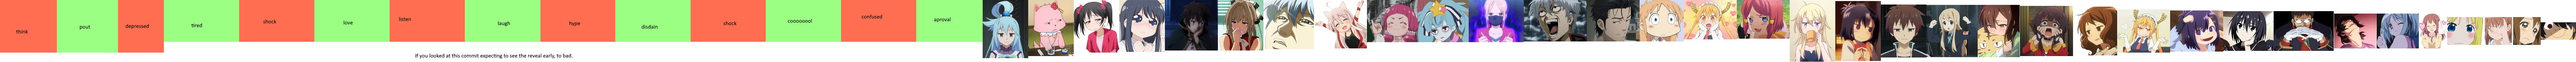
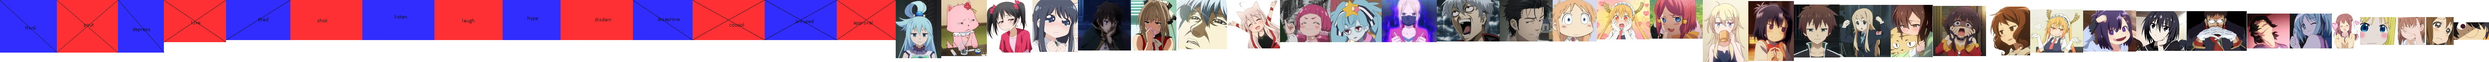
Ok, so like the height is just going to be an odd number forever more while I do this because I just want everything to stick to the top of the image and trying to sort out the middle line up sounds aweful.

diff --git a/src/_commentfaces-static.scss b/src/_commentfaces-static.scss
@@ -323,7 +323,7 @@ $static-comment-faces: (
 				"harukathink": ("height": 160, "width": 112, "position": 8139),
 				"kannathumbs": ("height": 162, "width": 150, "position": 8289),
 				"konosubawot4": ("height": 166, "width": 129, "position": 8418))),
-		33: ("sprite-sheet": "cf-static-046", "total-width": 7293, "items": ("araragi-1": ("height": 50, "width": 100, "position": 100),
+		33: ("sprite-sheet": "cf-static-046", "total-width": 7047, "items": ("araragi-1": ("height": 50, "width": 100, "position": 100),
 				"yui-crying": ("height": 80, "width": 78, "position": 178),
 				"facepalm": ("height": 80, "width": 80, "position": 258),
 				"gununu": ("height": 80, "width": 107, "position": 365),
@@ -357,19 +357,21 @@ $static-comment-faces: (
 				"nicoisdone": ("height": 151, "width": 129, "position": 4253),
 				"sideeyes": ("height": 161, "width": 129, "position": 4382),
 				"konosubawot": ("height": 167, "width": 129, "position": 4511))),
-		34: ("sprite-sheet": "cf-static-046", "total-width": 7293, "items": (
-				"SeasonalApproval": ("height": 120, "width": 188, "position": 4699),
-				"SeasonalConfused": ("height": 120, "width": 213, "position": 4912),
-				"SeasonalCool": ("height": 120, "width": 213, "position": 5125),
-				"SeasonalDisapproval": ("height": 120, "width": 213, "position": 5338),
-				"SeasonalDisdain": ("height": 120, "width": 213, "position": 5551),
-				"SeasonalHype": ("height": 120, "width": 213, "position": 5764),
-				"SeasonalLaugh": ("height": 120, "width": 213, "position": 5977),
-				"SeasonalListen": ("height": 120, "width": 213, "position": 6190),
-				"SeasonalLove": ("height": 120, "width": 213, "position": 6403),
-				"SeasonalShock": ("height": 120, "width": 213, "position": 6616),
-				"SeasonalTired": ("height": 120, "width": 213, "position": 6829),
-				"SeasonalDepression": ("height": 151, "width": 130, "position": 6959),
-				"SeasonalPout": ("height": 151, "width": 173, "position": 7132),
-				"SeasonalThink": ("height": 151, "width": 161, "position": 7293)))
+
+				# The height needs to be an odd number to stick to the top of image
+		34: ("sprite-sheet": "cf-static-046", "total-width": 7047, "items": (
+				"SeasonalApproval": ("height": 115, "width": 167, "position": 4678),
+				"SeasonalConfused": ("height": 115, "width": 204, "position": 4882),
+				"SeasonalCool": ("height": 115, "width": 204, "position": 5086),
+				"SeasonalDisapproval": ("height": 115, "width": 170, "position": 5256),
+				"SeasonalDisdain": ("height": 115, "width": 204, "position": 5460),
+				"SeasonalHype": ("height": 115, "width": 164, "position": 5624),
+				"SeasonalLaugh": ("height": 115, "width": 193, "position": 5817),
+				"SeasonalListen": ("height": 115, "width": 204, "position": 6021),
+				"SeasonalShock": ("height": 115, "width": 204, "position": 6225),
+				"SeasonalTired": ("height": 115, "width": 182, "position": 6407),
+				"SeasonalLove": ("height": 121, "width": 176, "position": 6583),
+				"SeasonalDepression": ("height": 151, "width": 130, "position": 6713),
+				"SeasonalPout": ("height": 151, "width": 173, "position": 6886),
+				"SeasonalThink": ("height": 151, "width": 161, "position": 7047)))
 );
